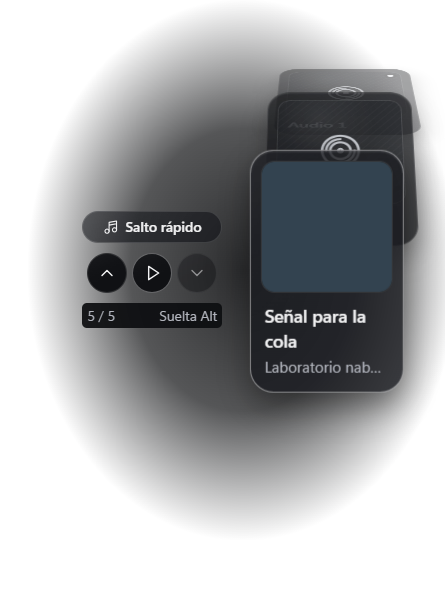
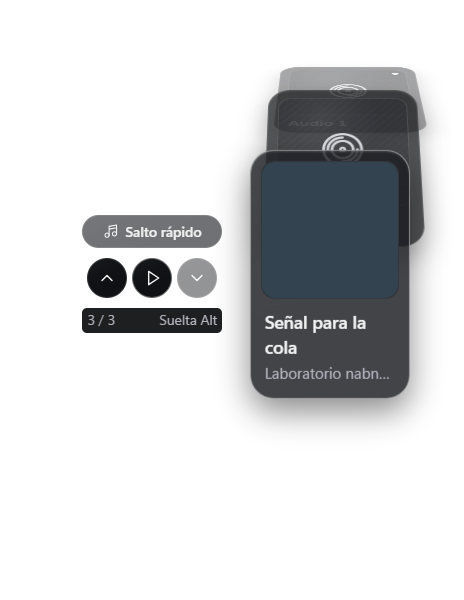
Remove Quick Skip outer frame

diff --git a/src/views-settings.ts b/src/views-settings.ts
@@ -11,10 +11,17 @@ const settingIcons: Record<SettingsSection,Icon> = {
 };
 export function settingsView(snapshot: Snapshot, view: SettingsView, t: Copy, desktop: boolean): string {
   const settings=snapshot.settings;
+  const playbackShortcuts = desktop ? `<div class="preference-group">
+    <h3>${t("Reproducción desde el escritorio", "Desktop playback")}</h3>
+    <div class="setting-row"><div><strong>${t("Abrir minirreproductor", "Open mini player")}</strong>
+      <p>${t("Abre el audio o vídeo cargado, incluso con nabnab minimizado.", "Open the loaded audio or video, even when nabnab is minimized.")}</p></div><kbd>${t("Ctrl + Mayús + M", "Ctrl + Shift + M")}</kbd></div>
+    <div class="setting-row"><div><strong>${t("Salto rápido", "Quick skip")}</strong>
+      <p>${t("Recorre la cola de audio junto al cursor. Suelta Alt para reproducir la selección.", "Browse the audio queue at the pointer. Release Alt to play the selection.")}</p></div><kbd>${t("Alt + rueda", "Alt + scroll")}</kbd></div>
+  </div>` : "";
   let content="";
   switch(view.section) {
     case "automation": case "connections": content="";break;
-    case "general": content=`<form id="general-settings" class="settings-form"><div class="preference-group"><label class="setting-control-row"><span><strong>${t("Idioma", "Language")}</strong></span><select id="language">${option("es","Español",settings.language)}${option("en","English",settings.language)}</select></label><div class="setting-row"><div><strong>${t("Carpeta de destino", "Destination folder")}</strong><p class="path">${h(settings.folder||t("Sin elegir", "Not selected"))}</p></div>${action("choose-folder",t("Cambiar", "Change"),"folder","quiet")}</div></div><div class="preference-group"><h3>${t("Comportamiento de la aplicación", "App behavior")}</h3><label class="check-label"><input id="tray-enabled" type="checkbox" ${settings.trayEnabled?"checked":""}>${t("Mostrar icono en la bandeja", "Show tray icon")}</label><label class="check-label"><input id="close-to-tray" type="checkbox" ${settings.closeToTray?"checked":""}>${t("Al cerrar, mantener en la bandeja", "Keep in tray when closing")}</label><label class="check-label"><input id="start-with-windows" type="checkbox" ${settings.startWithWindows?"checked":""}>${t("Iniciar con Windows", "Start with Windows")}</label><p class="field-note">${t("El cierre a la bandeja requiere activar su icono. Salir de nabnab detiene los procesos activos. Los trabajos se recuperan pausados para que puedas revisarlos.", "Keeping the app in the tray requires its icon. Quitting nabnab stops active processes. Jobs are recovered paused so you can review them.")}</p><div class="setting-row"><div><strong>${t("Abrir minirreproductor", "Open mini player")}</strong><p>${t("Disponible con un archivo cargado, también al minimizar.", "Available with a file loaded, including when minimized.")}</p></div><kbd>${t("Ctrl + Mayús + M", "Ctrl + Shift + M")}</kbd></div></div><div class="settings-save"><button class="button primary" type="submit">${t("Guardar ajustes", "Save settings")}</button></div></form>`;break;
+    case "general": content=`<form id="general-settings" class="settings-form"><div class="preference-group"><label class="setting-control-row"><span><strong>${t("Idioma", "Language")}</strong></span><select id="language">${option("es","Español",settings.language)}${option("en","English",settings.language)}</select></label><div class="setting-row"><div><strong>${t("Carpeta de destino", "Destination folder")}</strong><p class="path">${h(settings.folder||t("Sin elegir", "Not selected"))}</p></div>${action("choose-folder",t("Cambiar", "Change"),"folder","quiet")}</div></div><div class="preference-group"><h3>${t("Comportamiento de la aplicación", "App behavior")}</h3><label class="check-label"><input id="tray-enabled" type="checkbox" ${settings.trayEnabled?"checked":""}>${t("Mostrar icono en la bandeja", "Show tray icon")}</label><label class="check-label"><input id="close-to-tray" type="checkbox" ${settings.closeToTray?"checked":""}>${t("Al cerrar, mantener en la bandeja", "Keep in tray when closing")}</label><label class="check-label"><input id="start-with-windows" type="checkbox" ${settings.startWithWindows?"checked":""}>${t("Iniciar con Windows", "Start with Windows")}</label><p class="field-note">${t("El cierre a la bandeja requiere activar su icono. Salir de nabnab detiene los procesos activos. Los trabajos se recuperan pausados para que puedas revisarlos.", "Keeping the app in the tray requires its icon. Quitting nabnab stops active processes. Jobs are recovered paused so you can review them.")}</p></div>${playbackShortcuts}<div class="settings-save"><button class="button primary" type="submit">${t("Guardar ajustes", "Save settings")}</button></div></form>`;break;
     case "downloads": content=`<form id="download-settings" class="settings-form"><label>${t("Descargas simultáneas", "Concurrent downloads")}<input id="network-limit" type="number" min="1" max="6" value="${settings.networkLimit}" required></label><p class="field-note">${t("Como máximo una descarga por dominio a la vez.", "At most one download per domain at a time.")}</p><label>${t("Procesos multimedia simultáneos", "Concurrent media processes")}<input id="processing-limit" type="number" min="1" max="2" value="${settings.processingLimit}" required></label><p class="field-note">${t("Un proceso es la opción recomendada para mantener la respuesta del equipo.", "One process is recommended to keep the computer responsive.")}</p><button class="button primary" type="submit">${t("Guardar ajustes", "Save settings")}</button></form>`;break;
     case "formats": content=`<div class="settings-prose"><h3>${t("Perfiles de descarga", "Download profiles")}</h3><dl class="profile-list"><div><dt>${t("Vídeo compatible", "Compatible video")}</dt><dd>MP4 · H.264 / AAC. ${t("Recodifica solo los streams incompatibles.", "Re-encodes only incompatible streams.")}</dd></div><div><dt>${t("Calidad original", "Original quality")}</dt><dd>${t("Conserva códecs. Combina pistas en MKV cuando sea necesario.", "Keeps codecs. Merges tracks into MKV when needed.")}</dd></div><div><dt>${t("Audio compatible", "Compatible audio")}</dt><dd>MP3 · 192 kbps / M4A · AAC.</dd></div><div><dt>${t("Audio original", "Original audio")}</dt><dd>${t("Conserva el códec y su extensión real, incluido Opus.", "Keeps the codec and its real extension, including Opus.")}</dd></div></dl><p class="field-note">${t("Elige el perfil al analizar un enlace. La verificación revisa el códec real del resultado.", "Choose a profile when analyzing a link. Verification checks the output's real codec.")}</p></div>`;break;
     case "engines": content=`<p class="section-intro">${t("Motores locales administrados. Sus actualizaciones son independientes de nabnab.", "Managed local engines. Their updates are separate from nabnab.")}</p>${view.engines?`<ul class="engine-list">${view.engines.map(engine=>`<li><div><strong>${h(engine.name)}</strong><p>${h(engine.version??t("Versión desconocida", "Unknown version"))} · ${bytesLabel(engine.size)}</p><small>${h(engine.source)}</small>${engine.path?`<small class="path">${h(engine.path)}</small>`:""}</div><span class="engine-state">${engine.status==='installed'?icon("check"):icon("error")}${engine.status==='installed'?t("Instalado", "Installed"):engine.status==='missing'?t("Ausente", "Missing"):t("Averiado", "Broken")}</span></li>`).join("")}</ul>`:`<p role="status">${t("Consultando motores…", "Checking engines…")}</p>`}<div class="button-group">${action("repair-engines",t("Preparar o reparar motores", "Prepare or repair engines"),"tools","primary",view.working||!desktop?'disabled':'')}${action("check-engine-update",t("Comprobar yt-dlp", "Check yt-dlp"),"retry","secondary",view.working||!desktop?'disabled':'')}</div><details class="advanced-options"><summary>${t("Actualización de yt-dlp", "yt-dlp update")}</summary><p class="field-note">${t("La instalación requiere confirmación y no sustituye motores en uso.", "Installation requires confirmation and does not replace engines in use.")}</p><div class="button-group">${action("install-engine-update",t("Instalar versión comprobada", "Install checked version"),undefined,"secondary",view.working||!desktop?'disabled':'')}${action("rollback-engine-update",t("Volver a la versión anterior", "Restore previous version"),undefined,"quiet",view.working||!desktop?'disabled':'')}</div><div class="button-group">${action("rollback-engines",t("Restaurar conjunto anterior de motores", "Restore previous engine set"),undefined,"quiet",view.working||!desktop?"disabled":"")}</div></details>`;break;

diff --git a/src/mini-player.css b/src/mini-player.css
@@ -145,13 +145,6 @@
 .track-wheel[hidden] { display: none; }
 .quick-skip-window, .quick-skip-window body { background: transparent; }
 .quick-skip-window .track-wheel { --cover: clamp(76px, min(23dvh, 29vw), 124px); }
-.track-wheel::before {
-  content: "";
-  position: absolute;
-  inset: -2% -9%;
-  background: radial-gradient(ellipse at center, #090a0cdb 0%, #090a0cb0 37%, transparent 71%);
-  pointer-events: none;
-}
 .track-wheel[data-side="left"] { grid-template-columns: 112px var(--card-width); }
 .track-wheel[data-side="left"] .track-wheel-drum { grid-column: 2; grid-row: 1; }
 .track-wheel[data-side="left"] .track-wheel-tools { grid-column: 1; grid-row: 1; }
@@ -276,10 +269,8 @@
 .track-wheel-back { cursor: pointer; pointer-events: auto; }
 .track-wheel-back[hidden] { display: none; }
 .reduced-transparency .track-wheel, .track-wheel:focus-within { --card-glass: var(--secondary); }
-.reduced-transparency .track-wheel::before { display: none; }
 @media (prefers-reduced-transparency: reduce), (prefers-contrast: more) {
   .track-wheel { --card-glass: var(--secondary); }
-  .track-wheel::before { display: none; }
 }
 @media (prefers-reduced-motion: reduce) {
   .track-wheel-card { transition: none; }

diff --git a/src-tauri/src/quick_skip/windows.rs b/src-tauri/src/quick_skip/windows.rs
@@ -6,7 +6,7 @@ use std::{
 };
 use tauri::{AppHandle, Emitter, EventTarget, Manager, WebviewUrl, WebviewWindowBuilder};
 use windows_sys::Win32::{
-    Foundation::{LPARAM, LRESULT, POINT, WPARAM},
+    Foundation::{HWND, LPARAM, LRESULT, POINT, WPARAM},
     System::{LibraryLoader::GetModuleHandleW, Threading::GetCurrentThreadId},
     UI::{
         Input::KeyboardAndMouse::{
@@ -67,9 +67,7 @@ impl DesktopWheel {
             if state.open.take().is_some() {
                 if let Some(window) = app.get_webview_window(OVERLAY) {
                     if let Ok(handle) = window.hwnd() {
-                        unsafe {
-                            ShowWindow(handle.0 as _, SW_HIDE);
-                        }
+                        hide_overlay(handle.0 as _);
                     }
                 }
             }
@@ -77,6 +75,7 @@ impl DesktopWheel {
             WebviewWindowBuilder::new(app, OVERLAY, WebviewUrl::App("quick-skip.html".into()))
                 .title("nabnab · Quick Skip")
                 .decorations(false)
+                .shadow(false)
                 .resizable(false)
                 .inner_size(WIDTH, HEIGHT)
                 .transparent(true)
@@ -121,9 +120,7 @@ impl DesktopWheel {
                 state.open = None;
                 if let Some(window) = app.get_webview_window(OVERLAY) {
                     let handle = window.hwnd().map_err(|error| error.to_string())?;
-                    unsafe {
-                        ShowWindow(handle.0 as _, SW_HIDE);
-                    }
+                    hide_overlay(handle.0 as _);
                 }
             }
             Action::Transport { gesture, action } if state.open == Some(gesture) => {
@@ -212,6 +209,20 @@ impl DesktopWheel {
     }
 }
 
+fn hide_overlay(window: HWND) {
+    unsafe {
+        SetWindowPos(
+            window,
+            null_mut(),
+            0,
+            0,
+            0,
+            0,
+            SWP_HIDEWINDOW | SWP_NOACTIVATE | SWP_NOMOVE | SWP_NOSIZE | SWP_NOZORDER,
+        );
+    }
+}
+
 pub fn shutdown(app: &AppHandle) {
     app.state::<DesktopWheel>()
         .0
@@ -238,7 +249,9 @@ struct Shortcut {
 
 struct InputHandler {
     app: AppHandle,
+    main_window: isize,
     active: Cell<bool>,
+    release_timer: Cell<usize>,
     wheel_delta: Cell<i32>,
 }
 
@@ -249,6 +262,17 @@ impl InputHandler {
             let _ = app.state::<DesktopWheel>().input(&app, input);
         });
     }
+
+    fn finish(&self, key: &'static str) {
+        if !self.active.replace(false) {
+            return;
+        }
+        let timer = self.release_timer.replace(0);
+        if timer != 0 {
+            unsafe { KillTimer(null_mut(), timer) };
+        }
+        self.send(Input::Key(key));
+    }
 }
 
 thread_local! {
@@ -257,6 +281,12 @@ thread_local! {
 
 impl Shortcut {
     fn start(app: AppHandle) -> Result<Self, String> {
+        let main_window = app
+            .get_window("main")
+            .ok_or("The nabnab window is unavailable.")?
+            .hwnd()
+            .map_err(|error| error.to_string())?
+            .0 as isize;
         let (send, receive) = mpsc::sync_channel(1);
         let worker = thread::spawn(move || unsafe {
             let mut message = MSG::default();
@@ -267,11 +297,26 @@ impl Shortcut {
             if !mouse.is_null() && !keyboard.is_null() {
                 HANDLER.set(Some(InputHandler {
                     app,
+                    main_window,
                     active: Cell::new(false),
+                    release_timer: Cell::new(0),
                     wheel_delta: Cell::new(0),
                 }));
                 if send.send(Some(GetCurrentThreadId())).is_ok() {
-                    while GetMessageW(&mut message, null_mut(), 0, 0) > 0 {}
+                    while GetMessageW(&mut message, null_mut(), 0, 0) > 0 {
+                        if message.message == WM_TIMER {
+                            HANDLER.with_borrow(|handler| {
+                                if let Some(handler) = handler.as_ref() {
+                                    if message.wParam == handler.release_timer.get()
+                                        && !down(VK_MENU)
+                                    {
+                                        handler.wheel_delta.set(0);
+                                        handler.finish("commit");
+                                    }
+                                }
+                            });
+                        }
+                    }
                 }
             } else {
                 let _ = send.send(None);
@@ -310,14 +355,6 @@ fn down(key: u16) -> bool {
     unsafe { GetAsyncKeyState(i32::from(key)) < 0 }
 }
 
-fn own_foreground() -> bool {
-    let mut process = 0;
-    unsafe {
-        GetWindowThreadProcessId(GetForegroundWindow(), &mut process);
-    }
-    process == std::process::id()
-}
-
 unsafe extern "system" fn mouse_input(code: i32, message: WPARAM, value: LPARAM) -> LRESULT {
     let message = message as u32;
     if code >= 0
@@ -342,7 +379,8 @@ unsafe extern "system" fn mouse_input(code: i32, message: WPARAM, value: LPARAM)
                 || down(VK_CONTROL)
                 || down(VK_LWIN)
                 || down(VK_RWIN)
-                || (!handler.active.get() && own_foreground())
+                // The full app can display the wheel inline. The floating mini uses the desktop overlay.
+                || (!handler.active.get() && unsafe { GetForegroundWindow() } as isize == handler.main_window)
             {
                 return false;
             }
@@ -353,6 +391,8 @@ unsafe extern "system" fn mouse_input(code: i32, message: WPARAM, value: LPARAM)
                 if handler.active.replace(true) {
                     handler.send(Input::Move(step));
                 } else {
+                    // Reconcile the gesture with Alt's state if Windows omits the key-up notification.
+                    handler.release_timer.set(unsafe { SetTimer(null_mut(), 0, 40, None) });
                     handler.send(Input::Open(x, y, step));
                 }
             }
@@ -379,9 +419,7 @@ unsafe extern "system" fn key_input(code: i32, message: WPARAM, value: LPARAM) -
                     && !(key == VK_LMENU && down(VK_RMENU) || key == VK_RMENU && down(VK_LMENU))
                 {
                     handler.wheel_delta.set(0);
-                    if handler.active.replace(false) {
-                        handler.send(Input::Key("commit"));
-                    }
+                    handler.finish("commit");
                 }
                 return false;
             }
@@ -395,17 +433,10 @@ unsafe extern "system" fn key_input(code: i32, message: WPARAM, value: LPARAM) -
                 VK_UP => handler.send(Input::Move(-1)),
                 VK_DOWN => handler.send(Input::Move(1)),
                 VK_SPACE => handler.send(Input::Key("toggle")),
-                VK_RETURN => {
-                    handler.active.set(false);
-                    handler.send(Input::Key("commit"));
-                }
-                VK_ESCAPE => {
-                    handler.active.set(false);
-                    handler.send(Input::Key("cancel"));
-                }
+                VK_RETURN => handler.finish("commit"),
+                VK_ESCAPE => handler.finish("cancel"),
                 _ => {
-                    handler.active.set(false);
-                    handler.send(Input::Key("cancel"));
+                    handler.finish("cancel");
                     return false;
                 }
             }

diff --git a/docs/playback.md b/docs/playback.md
@@ -10,7 +10,7 @@ Pulsa **Sacar a una ventana** o minimiza nabnab con el mini abierto. La ventana 
 
 En Windows, pulsa **Ctrl + Mayús + M** para abrir el mini de audio o vídeo con un archivo cargado, aunque nabnab esté minimizado. Si el mini ya está flotando, el atajo le da el foco. Con **Ajustes → General → Mostrar icono en la bandeja** activado, también puedes elegir **Abrir minirreproductor** en el menú del icono junto al reloj.
 
-Con una pista de audio en la sesión, mantén **Alt** y gira la rueda. En Windows funciona también con nabnab minimizado y otra aplicación en primer plano. Las portadas aparecen junto al puntero y giran en profundidad. Suelta **Alt** para reproducir la tarjeta central o pulsa **Esc** para cancelar. Puedes pulsar una tarjeta, usar **↑**, **↓** e **Intro**, o abrir **Salto rápido** desde el mini de audio. **Volver a la pista** deshace el último salto dentro de la misma cola. [Referencia de la rueda](https://github.com/ffoouuaadd/skip-dat)
+Con una pista de audio en la sesión, mantén **Alt** y gira la rueda. En Windows, las portadas aparecen junto al puntero tanto con el mini flotante enfocado como con otra aplicación en primer plano. El escritorio se ve entre las tarjetas y los controles. Suelta **Alt** para reproducir la tarjeta central o pulsa **Esc** para cancelar. Puedes pulsar una tarjeta, usar **↑**, **↓** e **Intro**, o abrir **Salto rápido** desde el mini de audio. **Volver a la pista** deshace el último salto dentro de la misma cola. Los dos atajos están en **Ajustes → General → Reproducción desde el escritorio**. [Referencia de la rueda](https://github.com/ffoouuaadd/skip-dat)
 
 Usa **↑** y **↓** para subir o bajar el volumen cinco puntos en vídeo o música. En la barra y el mini, el atajo funciona cuando el foco está en el reproductor. Los controles de formulario mantienen su manejo habitual con las flechas.
 
@@ -53,7 +53,7 @@ La prueba `tests/native-playback.browser.mjs` genera las muestras con FFmpeg y, 
 
 Con `NABNAB_PLAYBACK_LIVE_DOWNLOAD=1`, la misma prueba descarga una muestra pública a través de la cola nativa mientras suena un archivo local. Con la pila normal de Windows se guardaron 1.128.375 bytes y la pista avanzó 1,74 segundos entre el inicio de la transferencia y su final, sin cambiar de archivo ni pasar a pausa. [Muestra de vídeo de MDN](https://developer.mozilla.org/shared-assets/videos/flower.mp4)
 
-Con `NABNAB_PLAYBACK_DESKTOP_GESTURE=1`, la prueba usa la rueda y el teclado de Windows en una ventana de prueba independiente. Comprueba el foco, la selección al soltar Alt, la cancelación con Esc y que el gesto deja de abrir la rueda al detener la sesión.
+Con `NABNAB_PLAYBACK_DESKTOP_GESTURE=1`, la prueba usa la rueda y el teclado de Windows con el mini flotante enfocado y con una ventana de prueba independiente. Comprueba el foco, la selección al soltar Alt, la cancelación con Esc y que el gesto deja de abrir la rueda al detener la sesión.
 
 Con `NABNAB_PLAYBACK_DESKTOP_TRAY=1`, abre el menú nativo de bandeja con audio y vídeo en reproducción. Comprueba que el mini aparece con la ventana principal minimizada, que conserva el mismo elemento multimedia y que el menú desactiva la acción cuando se cierra la sesión.
 
